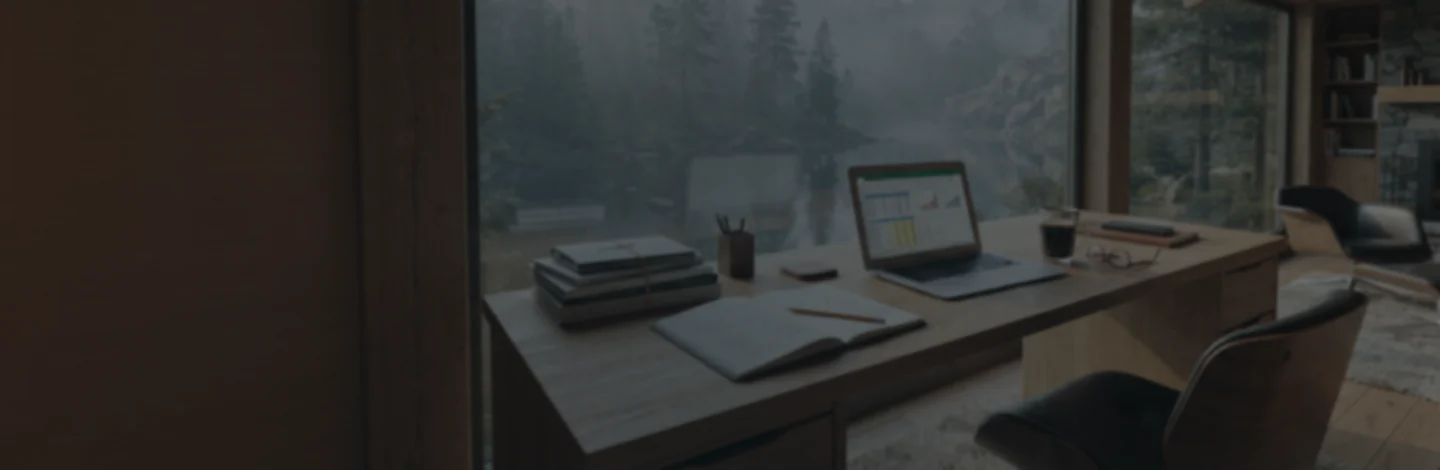
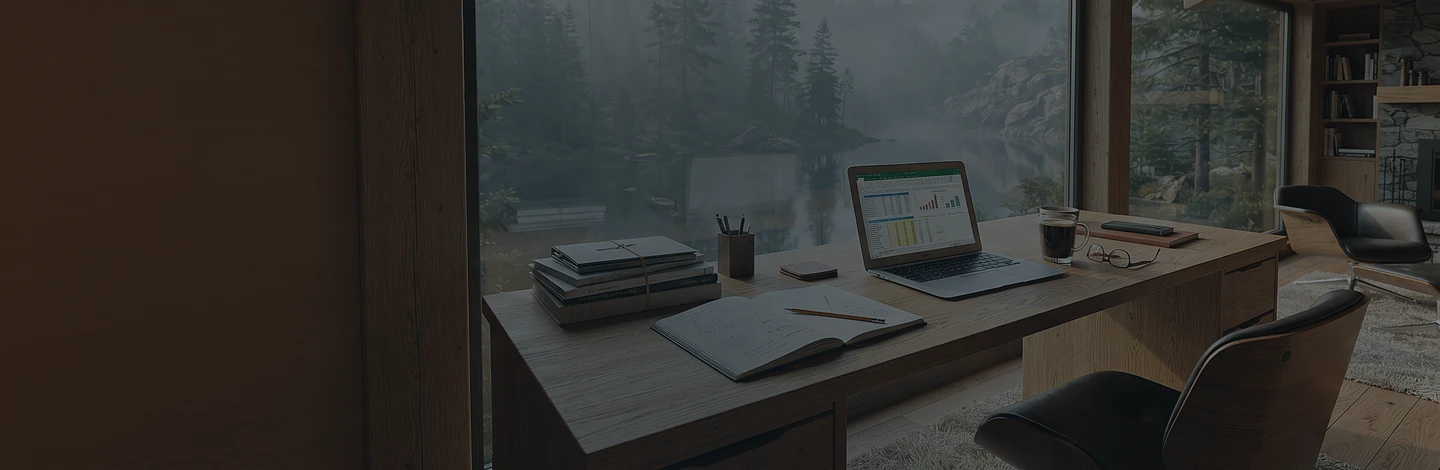
Мобильные: панель открывается под своей карточкой. Фон материалов без мыла

diff --git a/prod/index.html b/prod/index.html
@@ -226,7 +226,16 @@ document.addEventListener('DOMContentLoaded',t_setvisRecs);}})();</script><style
 [data-ob-door="work"],[data-ob-panel="work"]{--c:#1e7268}
 
 /* ── три двери ── */
+/* Двери и панели живут в одной сетке. На широком экране панели идут
+   под рядом дверей, на узком каждая панель встаёт сразу под своей дверью. */
 .ob-doors{display:grid;grid-template-columns:repeat(3,minmax(0,1fr));gap:18px}
+.ob-doors .ob-panel{grid-column:1/-1}
+.ob-door[data-ob-door="nozem"]{order:1}
+.ob-door[data-ob-door="zem"]{order:2}
+.ob-door[data-ob-door="work"]{order:3}
+.ob-panel[data-ob-panel="nozem"]{order:4}
+.ob-panel[data-ob-panel="zem"]{order:5}
+.ob-panel[data-ob-panel="work"]{order:6}
 .ob-door{position:relative;border:1px solid rgba(49,58,57,.16);border-radius:26px;
   padding:28px 26px 22px;background:#fffffb;cursor:pointer;width:100%;
   font-family:inherit;display:flex;flex-direction:column;align-items:center;text-align:center;
@@ -368,12 +377,29 @@ document.addEventListener('DOMContentLoaded',t_setvisRecs);}})();</script><style
 
 @media screen and (max-width:1100px){
   .ob-doors{grid-template-columns:1fr}
+  .ob-door[data-ob-door="nozem"]{order:1}
+  .ob-panel[data-ob-panel="nozem"]{order:2}
+  .ob-door[data-ob-door="zem"]{order:3}
+  .ob-panel[data-ob-panel="zem"]{order:4}
+  .ob-door[data-ob-door="work"]{order:5}
+  .ob-panel[data-ob-panel="work"]{order:6}
+  .ob-panel.is-open{margin-top:14px;margin-bottom:6px}
   .ob-jobs{grid-template-columns:repeat(2,minmax(0,1fr))}
+}
+@media screen and (max-width:900px){
+  /* цепочка первого маршрута разворачивается в вертикальный список */
+  .ob-chainx{flex-direction:column}
+  .ob-chainx__s{min-width:100%;padding:0 0 22px 60px;position:relative}
+  .ob-chainx__s:first-child{padding-left:60px}
+  .ob-chainx__n{position:absolute;left:0;top:0;margin-bottom:0}
+  .ob-chainx__t{margin-top:9px}
+  .ob-chainx__s:not(:last-child):after{left:21px !important;right:auto;top:50px;bottom:-2px;
+    width:2px;height:auto}
+  /* полоса шагов третьего маршрута */
+  .ob-strip__s{min-width:100%}
 }
 @media screen and (max-width:700px){
   .ob-jobs{grid-template-columns:1fr}
-  .ob-chainx__s{min-width:100%;padding:0 0 16px}
-  .ob-chainx__s:not(:last-child):after{display:none}
   .ob-panel__in{padding:24px 20px 20px;border-radius:20px}
   .ob-pcta .ob-btn{width:100%;min-width:0}
 }
@@ -476,7 +502,6 @@ document.addEventListener('DOMContentLoaded',t_setvisRecs);}})();</script><style
               <p>Поднять загрузку, навести порядок, пройти классификацию, достроить.</p>
               <div class="ob-door__go"><span>Что чиним</span><i>&#8964;</i></div>
             </button>
-          </div>
 
           <div class="ob-panel" data-ob-panel="nozem">
             <div class="ob-panel__in">
@@ -628,6 +653,7 @@ document.addEventListener('DOMContentLoaded',t_setvisRecs);}})();</script><style
                 <div class="ob-pcta__note">Бесплатно. Скажем, что чинить в первую очередь</div>
               </div>
             </div>
+          </div>
           </div>
 
           <script>
